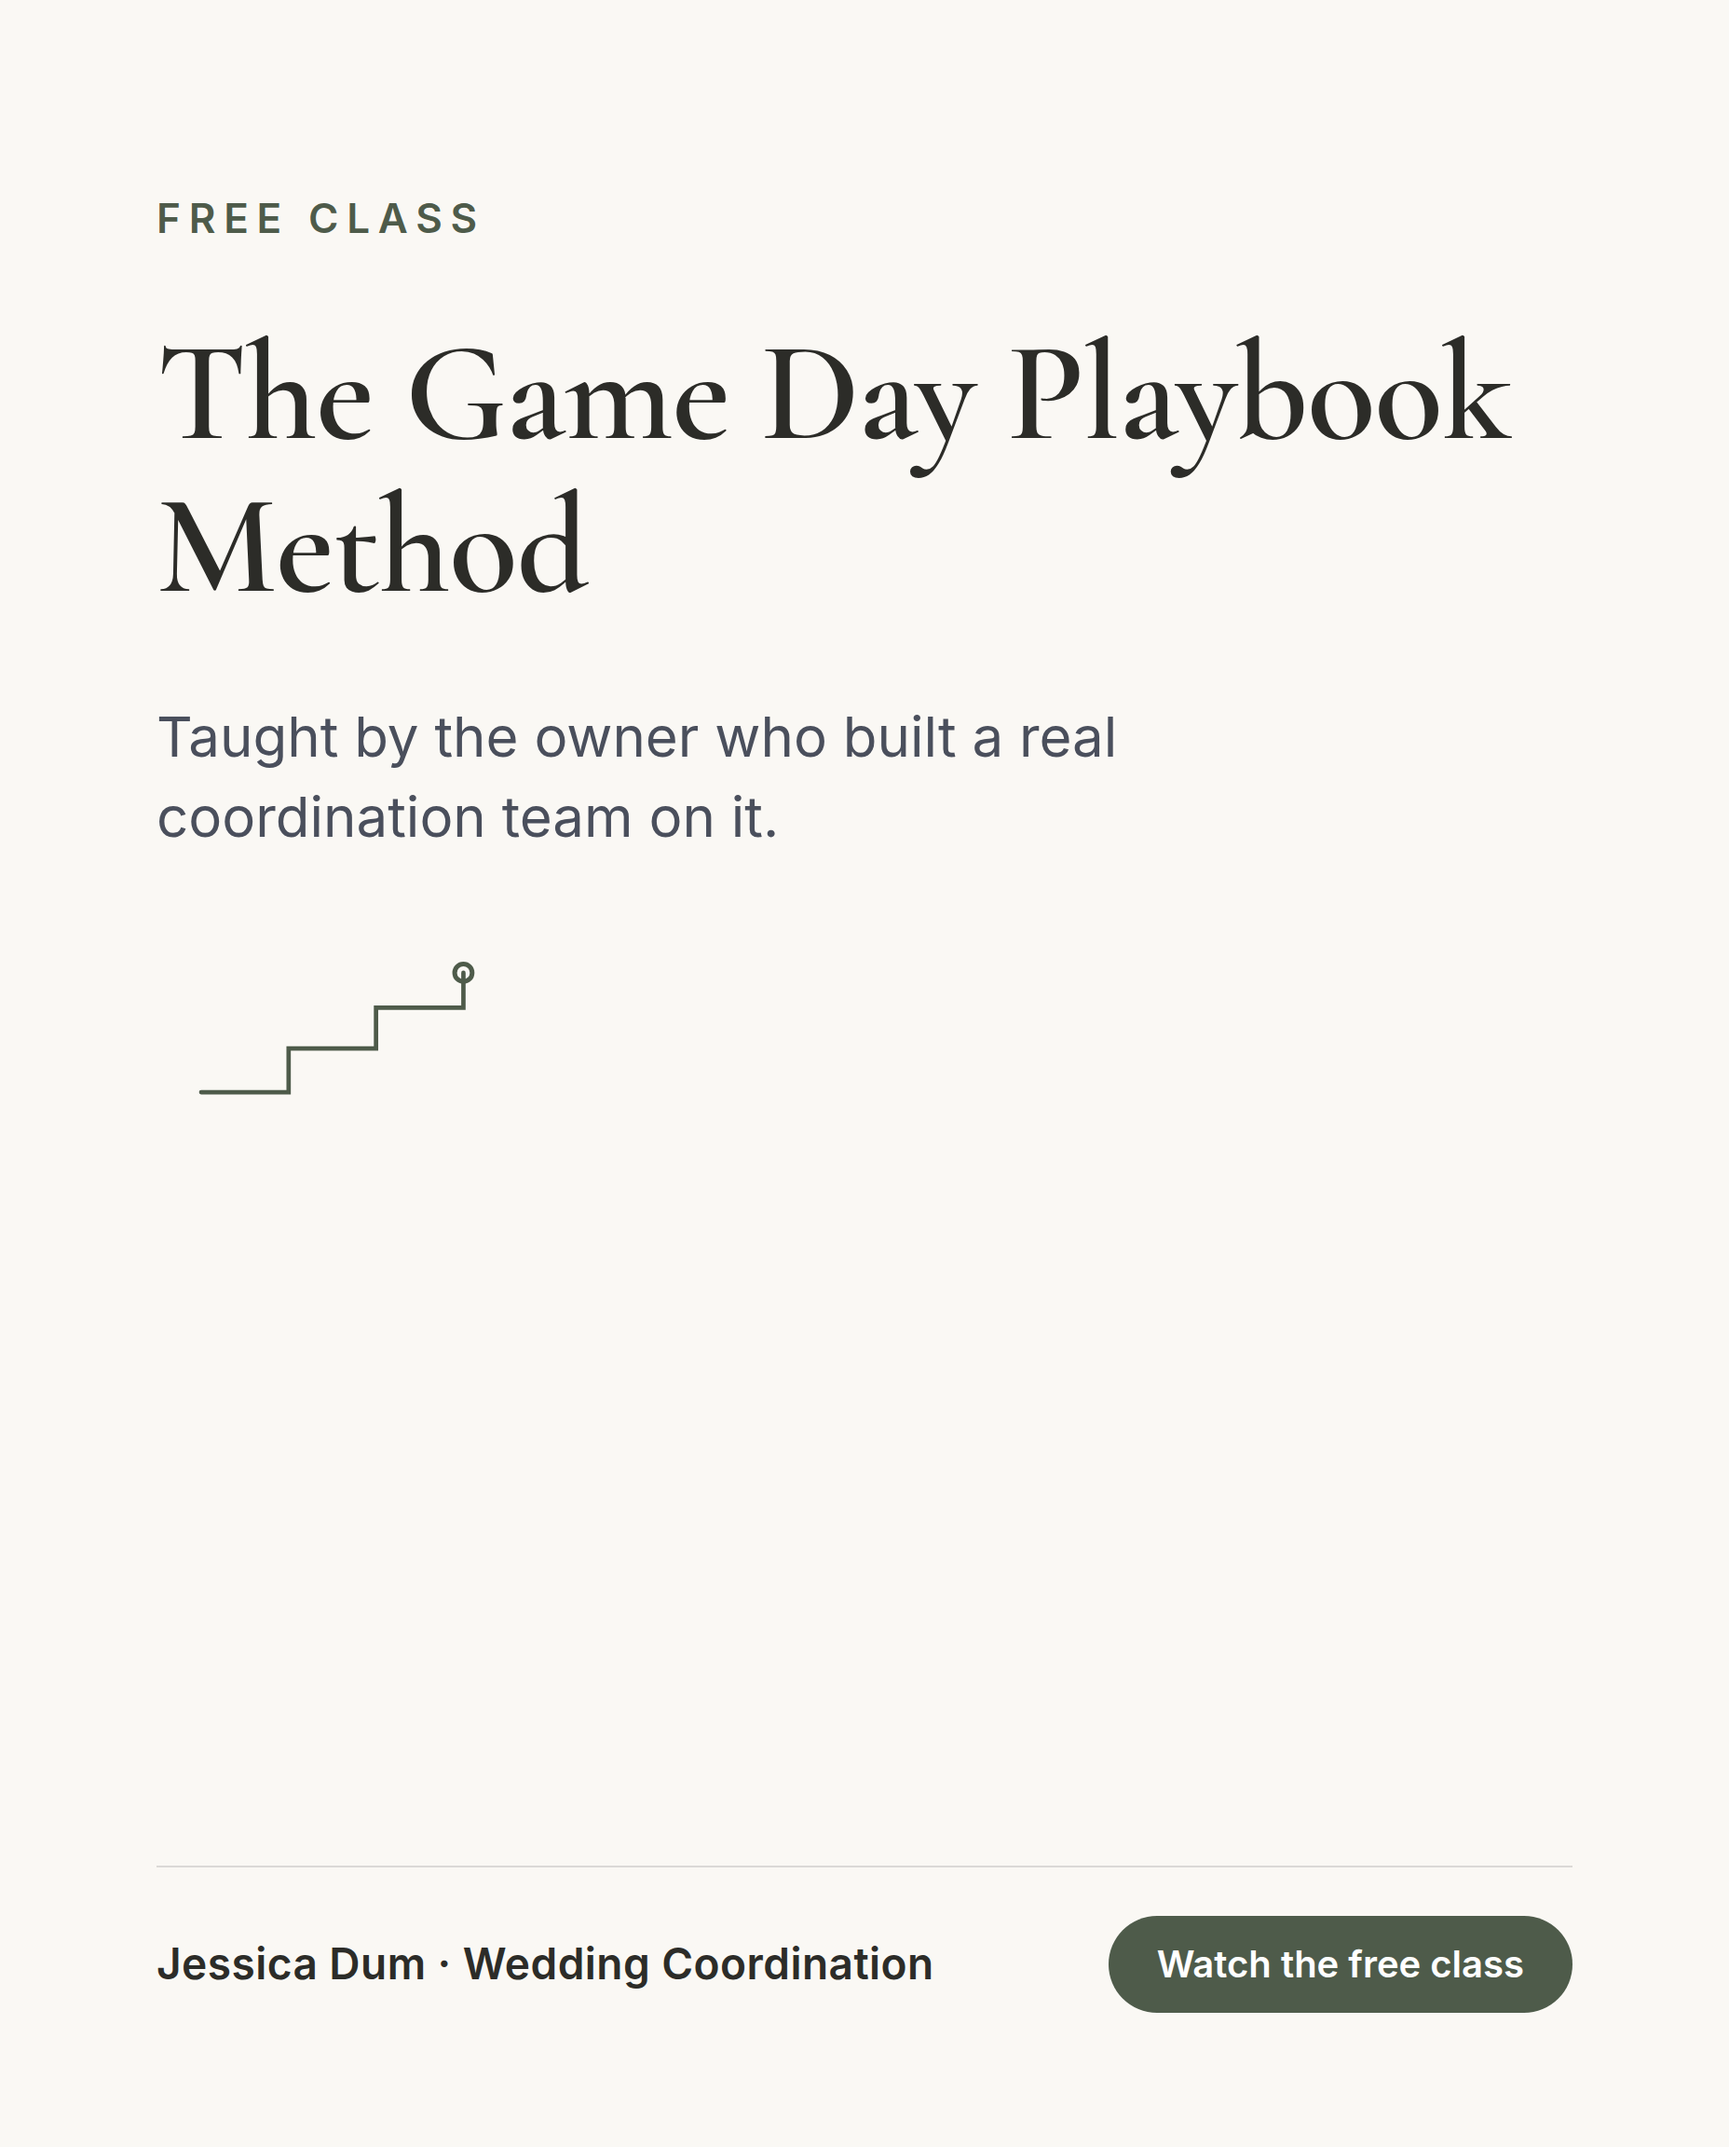
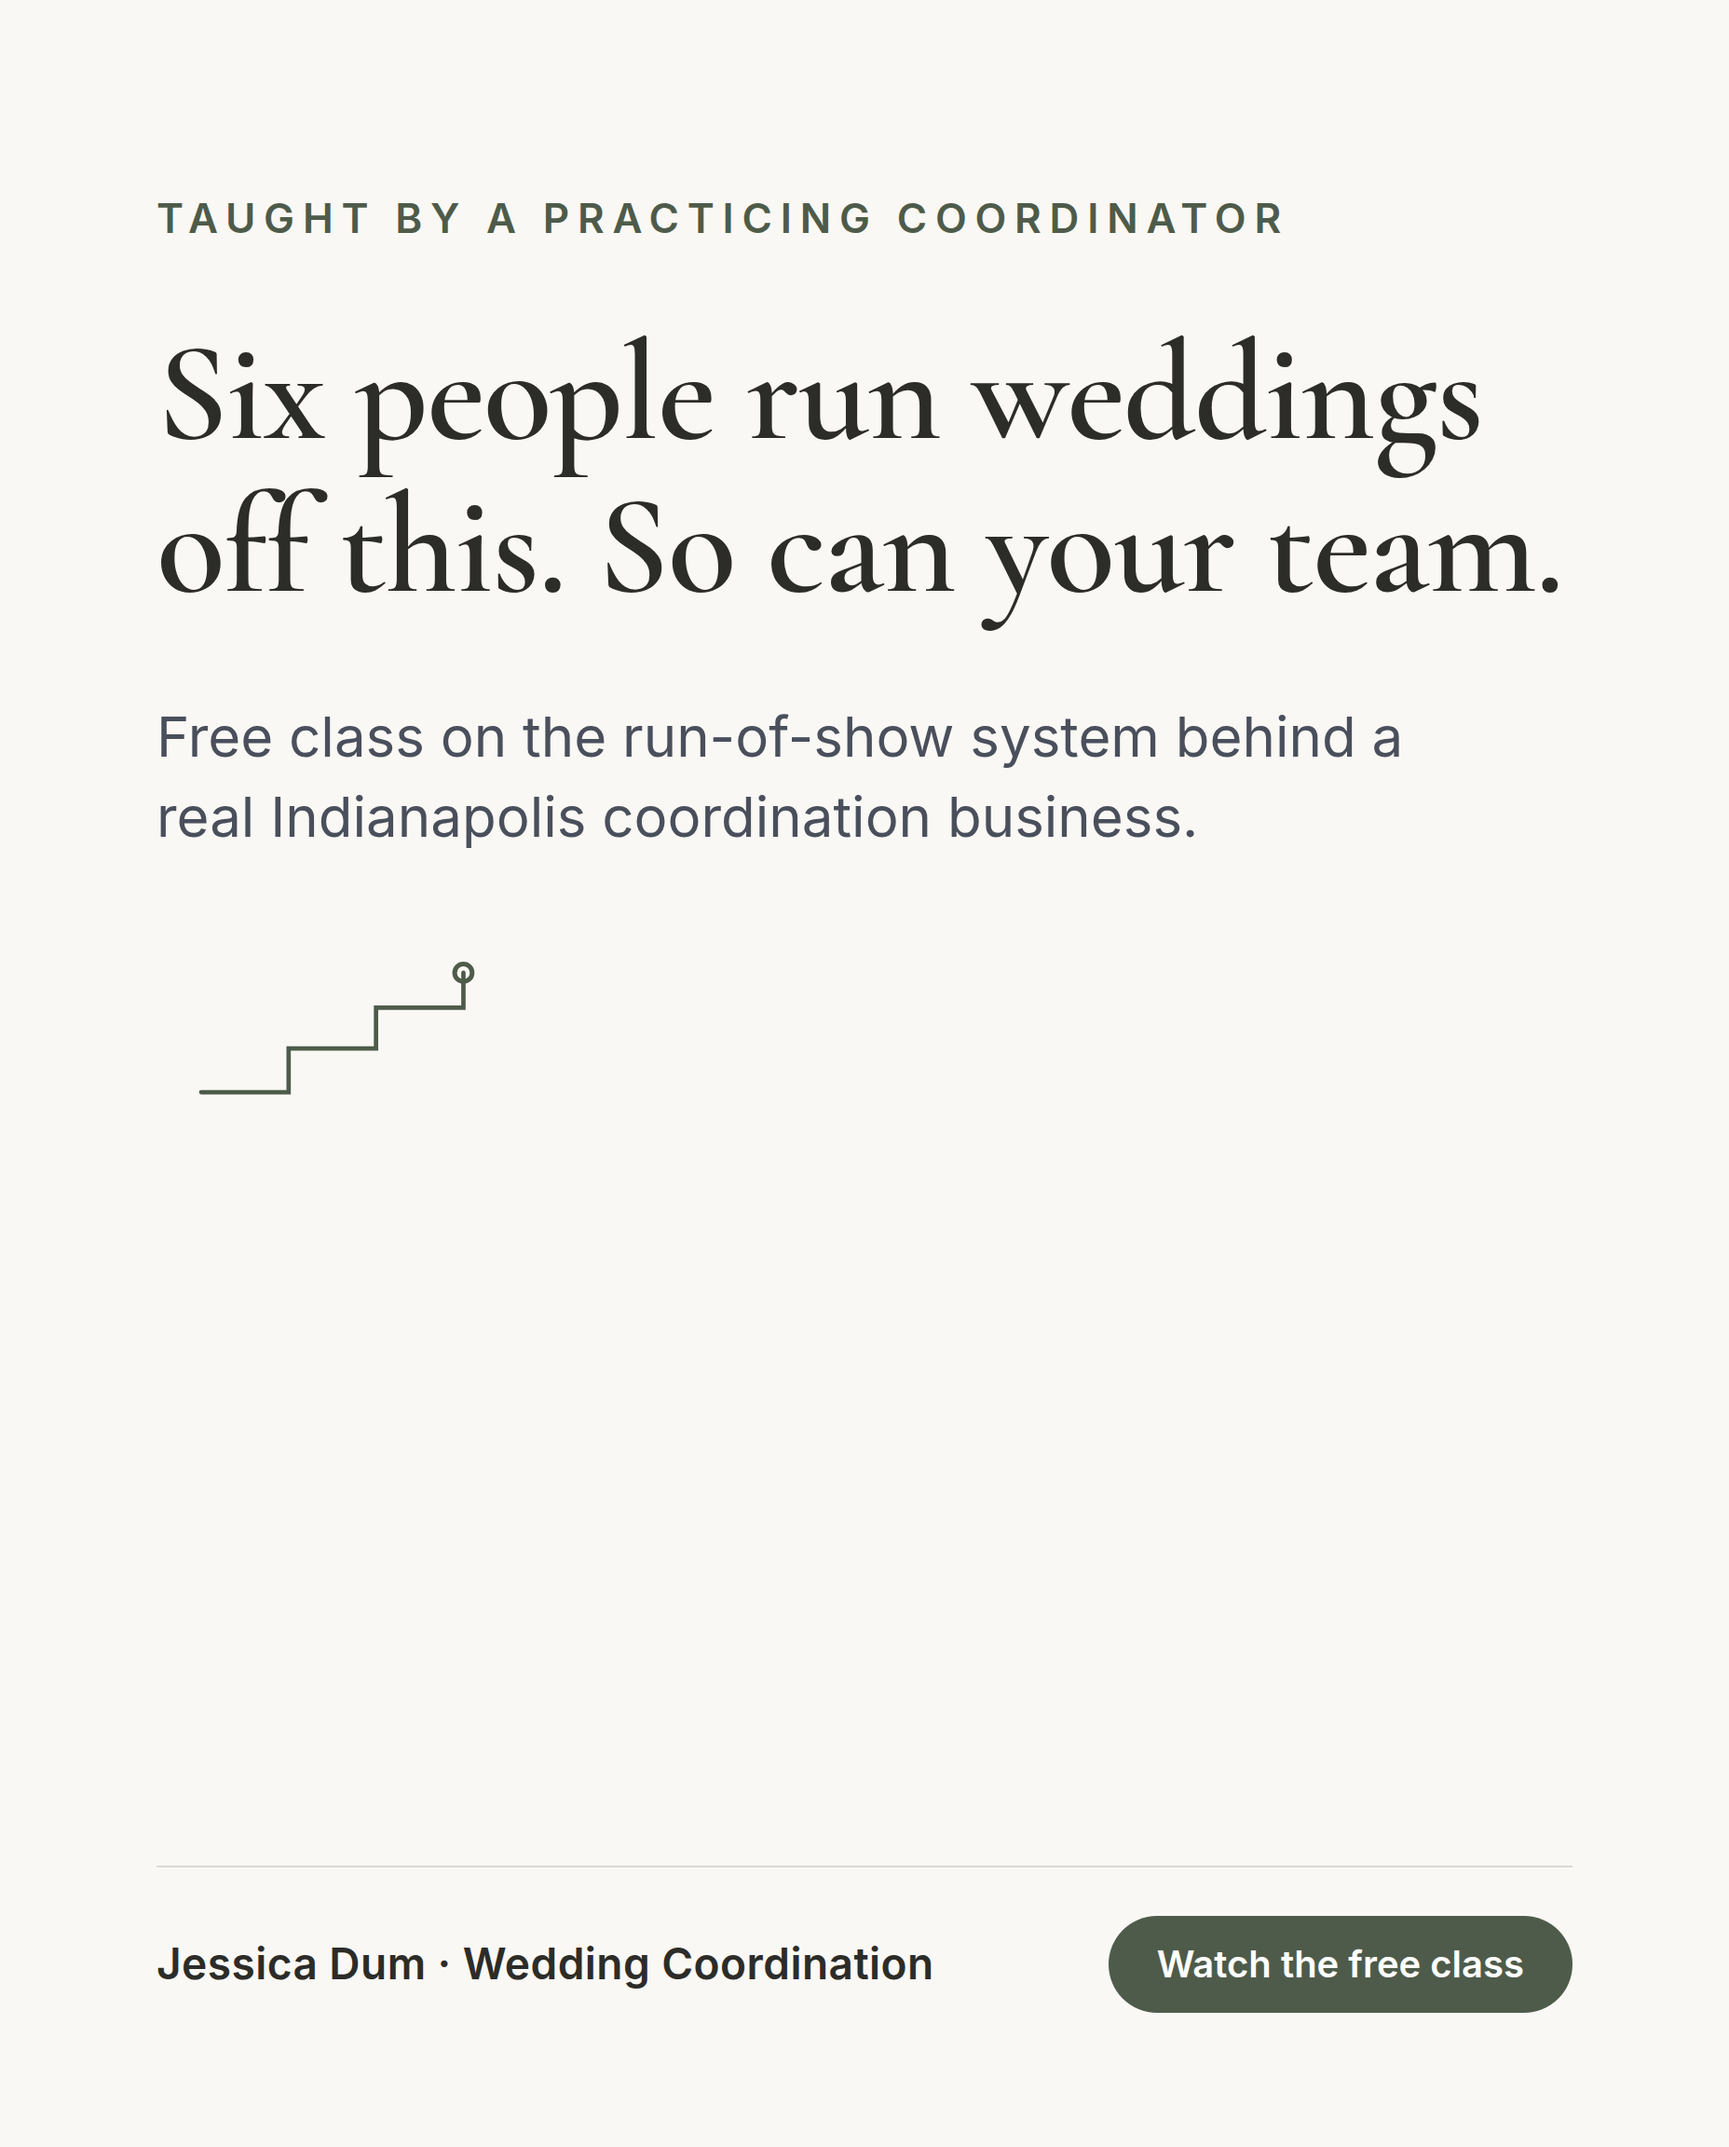
showcase: jessica-dum-wedding

diff --git a/jessica-dum-wedding/deck.html b/jessica-dum-wedding/deck.html
@@ -4,7 +4,7 @@
 <meta charset="UTF-8">
 <meta name="viewport" content="width=device-width, initial-scale=1.0">
 <meta name="robots" content="noindex,nofollow">
-<title>The Game Day Playbook Method &middot; Jessica Dum Wedding Coordination</title>
+<title>The Game Day Playbook &middot; Jessica Dum Wedding Coordination</title>
 <link rel="preconnect" href="https://fonts.googleapis.com">
 <link rel="preconnect" href="https://fonts.gstatic.com" crossorigin>
 <link href="https://fonts.googleapis.com/css2?family=Cormorant+Garamond:wght@500;600;700&family=Inter:wght@300;400;500;600&display=swap" rel="stylesheet">
@@ -86,7 +86,7 @@
 
 <script>
 const S = [
- {t:'title',title:'The Game Day Playbook Method',sub:'How a written, repeatable run-of-show turns a wedding coordinator who has to be everywhere into a team that can execute without her standing on-site.',brand:true,line:'big'},
+ {t:'title',title:'The Game Day Playbook',sub:'How a written, repeatable run-of-show turns a wedding coordinator who has to be everywhere into a team that can execute without her standing on-site.',brand:true,line:'big'},
 
  {t:'normal',k:'Who this is for',title:'Planners in their first 0 to 5 years, still holding every wedding-day detail in their own head.',body:'You are good at this. Clients love you. And every wedding still runs through you personally, from the first vendor call to the last box loaded into the car.'},
  {t:'normal',k:'What you will walk away with',title:'The structure of a written Game Day Playbook you can actually hand to someone else.',body:'What goes in a run-of-show, how a team executes off it without checking with you every ten minutes, and how the same document becomes the backbone of pricing and hiring.'},

diff --git a/jessica-dum-wedding/index.html b/jessica-dum-wedding/index.html
@@ -70,7 +70,7 @@
     <strong>For Jessica Dum</strong> &nbsp;&middot;&nbsp; from Dustin at 780 Marketing &nbsp;&middot;&nbsp; August 2026
   </div>
 
-  <h1>The Game Day Playbook Method</h1>
+  <h1>The Game Day Playbook</h1>
   <p class="framing">Here is what I mentioned in my email: the masterclass, the numbers, and the auction data that did not fit in the message. You already built the hard part, which is the Game Day Playbook, a six-person coordination team, and two coaching offers that come straight out of actually running the operation. What you don't have is a system to bring in wedding planners who have never heard of you and convert them into VIP Day and 90-Day Business Coaching clients. This is that system, and it runs alongside your consultation process instead of replacing it.</p>
 
   <div class="section">
@@ -106,7 +106,7 @@
         <tr><td>Show rate</td><td>30%</td><td>40%</td></tr>
         <tr><td>Masterclass viewers</td><td>30</td><td>66</td></tr>
         <tr><td>Next-step rate</td><td>5%</td><td>8%</td></tr>
-        <tr><td>VIP Days booked / month</td><td>1 to 2</td><td>5</td></tr>
+        <tr><td>VIP Days booked / month</td><td>1</td><td>5</td></tr>
         <tr class="hl"><td>New revenue added each month</td><td>~$2,500 / mo</td><td>~$12,500 / mo</td></tr>
       </tbody>
     </table>
